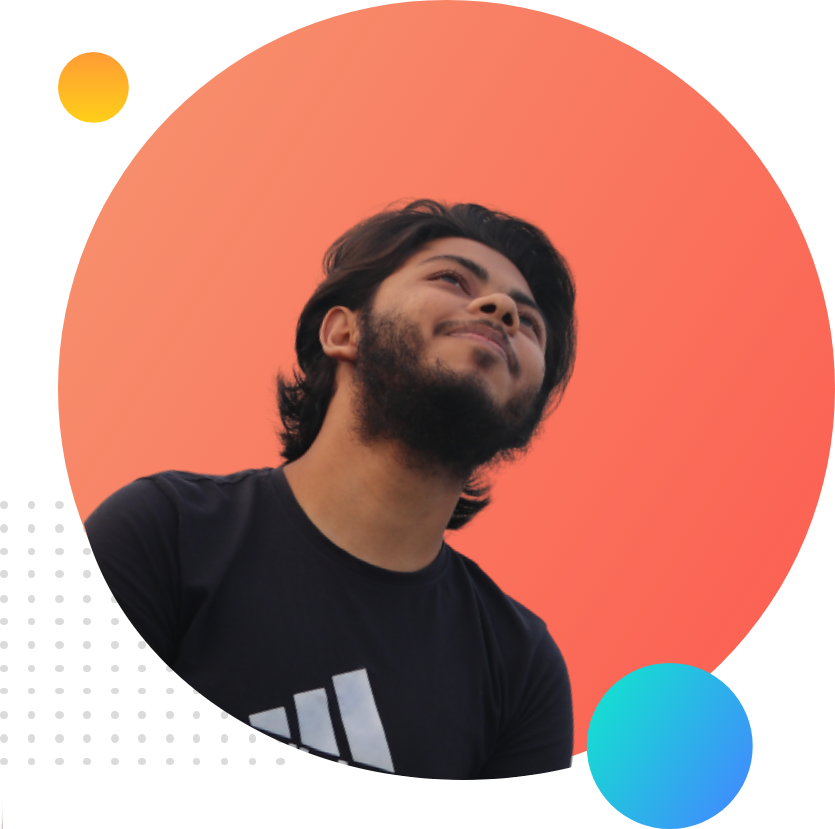
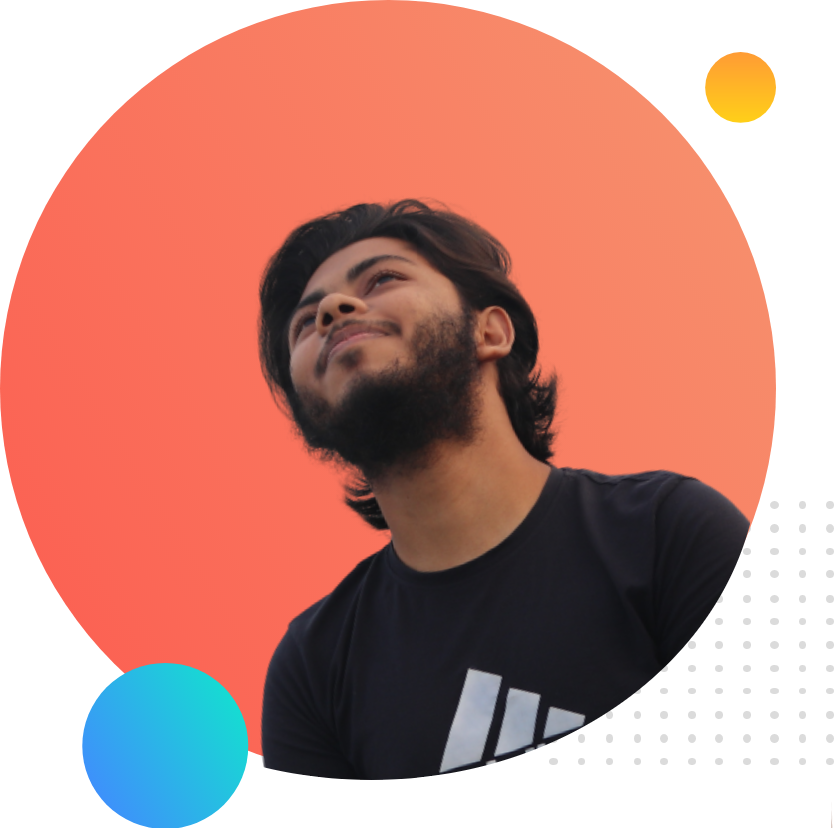
rate

diff --git a/index.html b/index.html
@@ -22,13 +22,9 @@
             <div class="son_div">
                 <h1>
                     Welcome To
-                </h1>
-
-                <h1>
-                    <span class="orange_color">
-                        Peter Parker
-                    </span>
-                    World!
+                    <br>
+                    <span class="orange_color">Peter Parker
+                    </span>World!
                 </h1>
                 <h3>
                     Build Climber and Train Stopper
@@ -40,19 +36,20 @@
                 </p>
                 <a class="button" target="_balank" href="https://www.facebook.com/taha.lm.1f">Find Me Facebook</a>
             </div>
-            <div class="son_div">
-                <img src="Pic/top imj.png" alt="tahas pic">
+            <div class="son_div_to">
+                <img src="Pic/fffgfg.jpg" alt="tahas pic">
             </div>
         </div>
     </section>
+
     <section class="middle-banner">
         <div class="flex">
-            <div class="son_div">
+            <div class="son_div_to">
                 <img src="Pic/bottom img.jpg" alt="tahas pic">
             </div>
             <div class="son_div">
                 <h1>
-                    Dream Big
+                    <span class="colo">Dream Big</span>
                 </h1>
                 <h3>
                     Become a web developer
@@ -65,6 +62,31 @@
             </div>
         </div>
     </section>
+    <br><br><br><br><br>
+    <section id="last_banner">
+        <div class="flex">
+            <div class="son_div">
+                <h1>
+
+                    <span class="orange_color">Peter Parker
+                    </span>World!
+                </h1>
+                <h3>
+                    Build Climber and Train Stopper
+                </h3>
+                <p>
+                    You might saw me jumping, climbing buildings, and stopping trains. But nobody pays me a dime for
+                    that work. That's why I am learning and mastering web development. I will not stop until I become
+                    the Web Development Hero.
+                </p>
+                <a class="button" target="_balank" href="https://www.facebook.com/taha.lm.1f">Find Me Facebook</a>
+            </div>
+            <div class="son_div_to">
+                <img src="Pic/top imj.png" alt="tahas pic">
+            </div>
+        </div>
+    </section>
+
     <section class="botton_banner">
         <h1 class="exprience">
             Experiences
@@ -98,6 +120,7 @@
             </div>
         </div>
     </section>
+
 
     <footer>
         © Peter Parker 2021, a Programming Hero initiative.

diff --git a/style.css b/style.css
@@ -6,6 +6,10 @@ body{
     background-image: url(Pic/top-banner.png);
     background-repeat: no-repeat;
 }
+#last_banner{
+    background-image: url(Pic/Frame\ 58.jpg);
+    background-repeat: no-repeat;
+}
 .flex{
     display: flex;
 }
@@ -16,7 +20,13 @@ body{
     padding-right: 4%;
     margin-right: 4%;
 }
-.son_div img{
+.son_div_to{
+    width: 40%;
+    padding-right: 2%;
+    margin-right: 2%;
+    padding-top: 90px;
+}
+.son_div_to img{
 width: 100%;
 }
 h1{
@@ -97,4 +107,7 @@ footer{
     text-align: center;
     padding-top: 200px;
     padding-bottom: 10px;
+}
+.colo{
+    color: yellow;
 }
